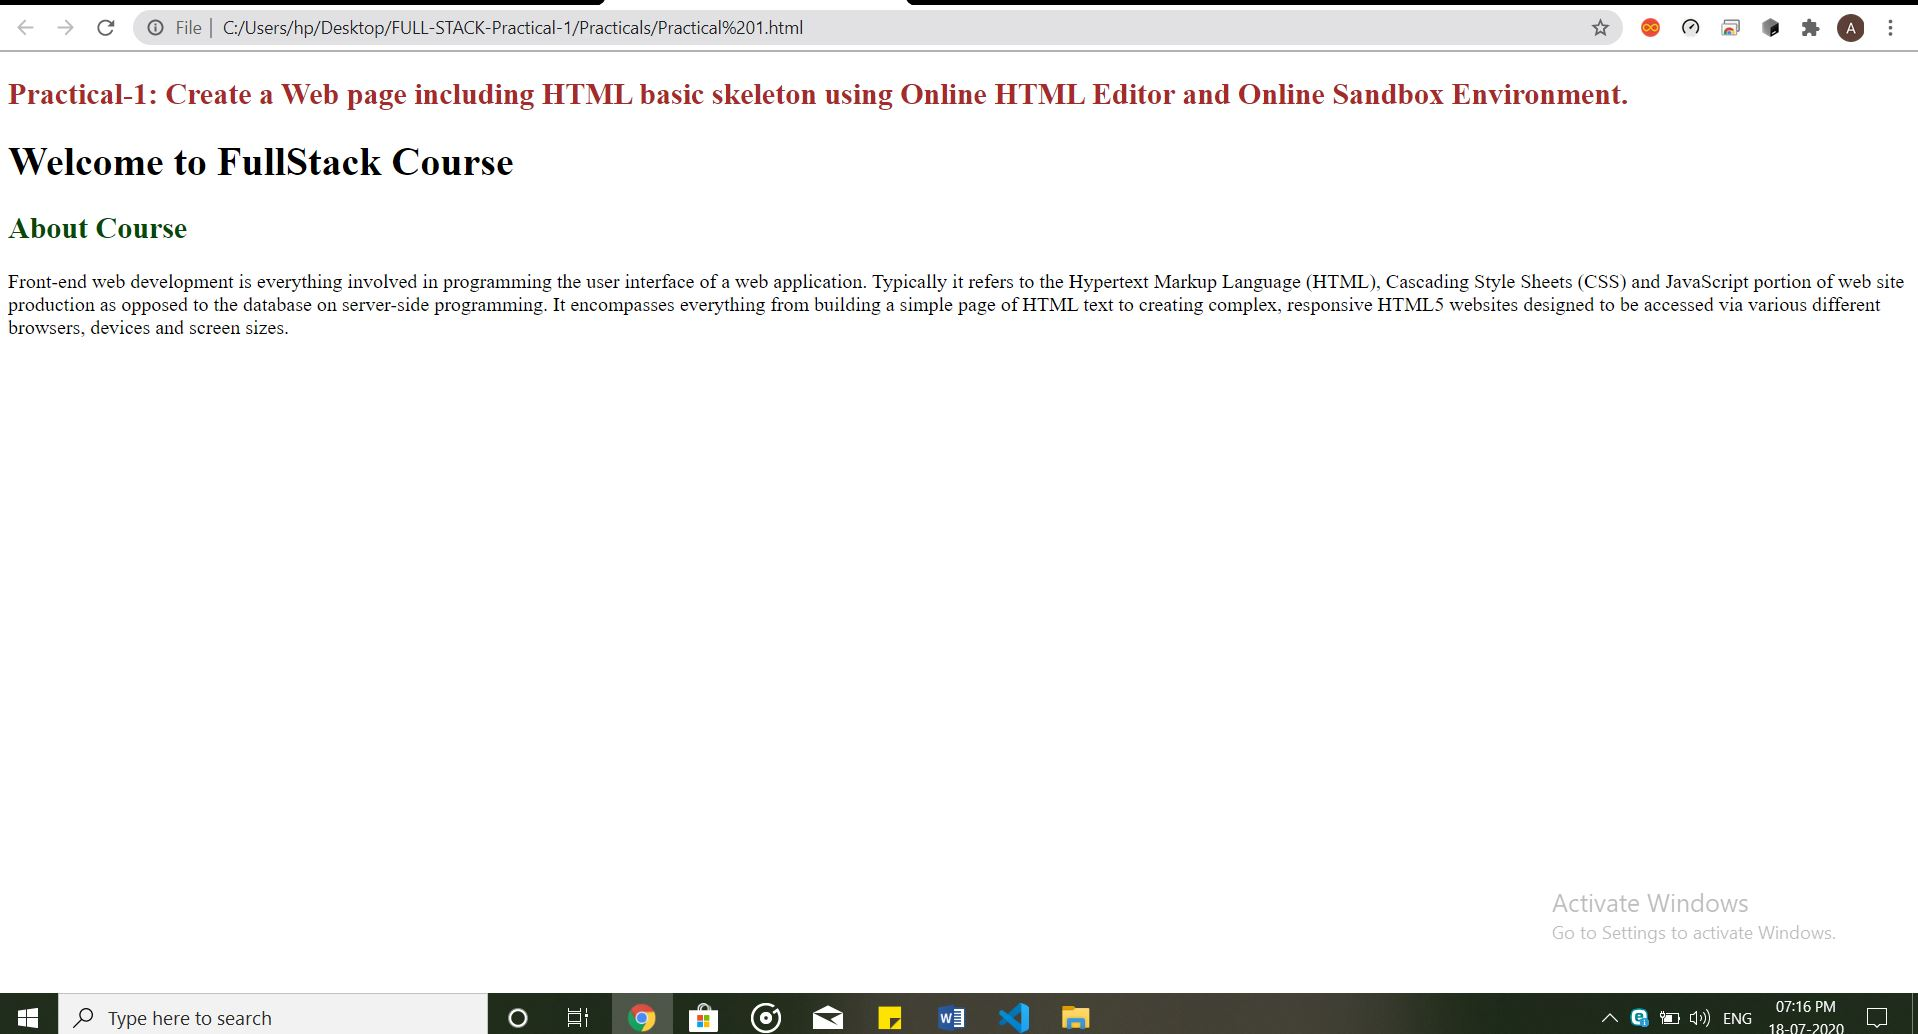
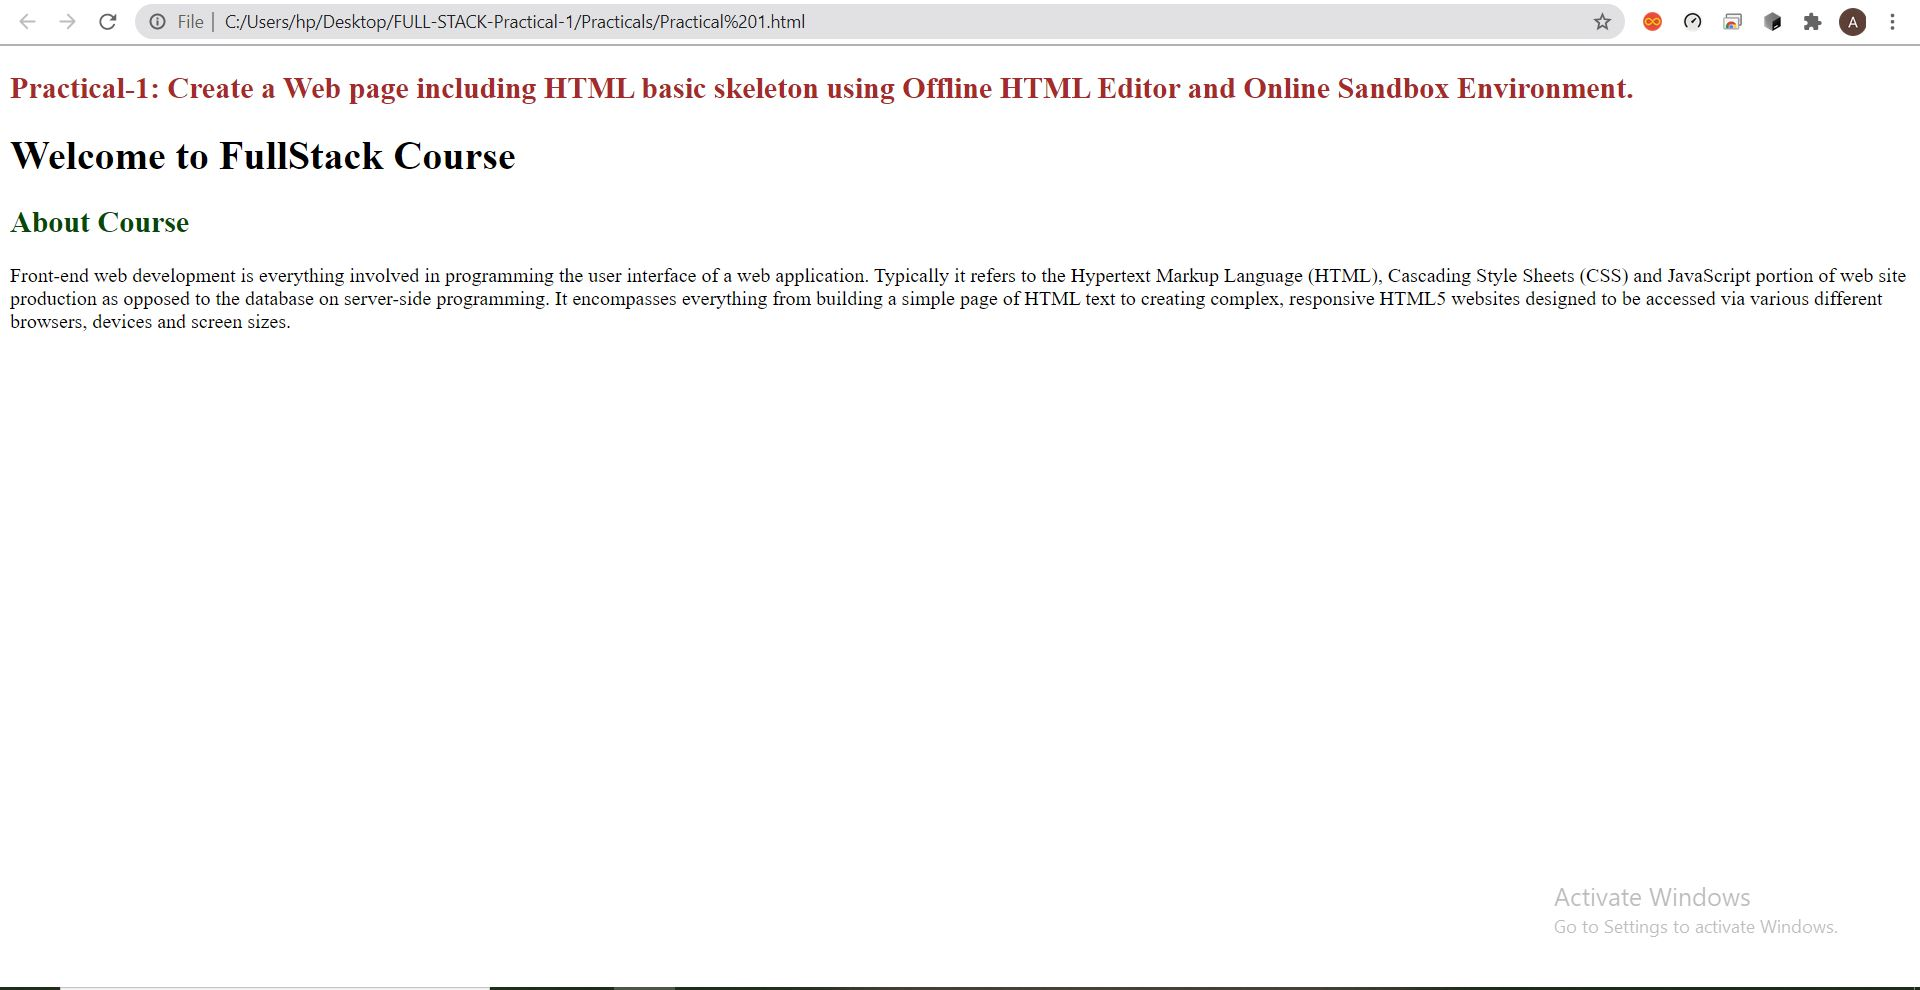
practical 1

diff --git a/Practicals/Practical 1.html b/Practicals/Practical 1.html
@@ -9,8 +9,9 @@
     <h2 style="color: brown;">Practical-1: Create a Web page including HTML basic skeleton using Offline HTML Editor and Online Sandbox Environment.</h2>
     <h1>Welcome to FullStack Course</h1>
     <h2 style="color: rgb(6, 73, 6);">About Course</h2>
-    <p>Front-end web development is everything involved in programming the user interface of a web application. Typically it refers to the Hypertext Markup Language (HTML), Cascading Style Sheets (CSS) and JavaScript portion of web site production as opposed to the database on server-side programming. It encompasses everything from building a simple page of HTML text to creating complex, responsive HTML5 websites designed to be accessed via various different browsers, devices and screen sizes.</p>
+    <p>Front end web development is everything involved in programming the user interface of a web application. Typically it refers to the Hypertext Markup Language (HTML), Cascading Style Sheets (CSS) and JavaScript portion of web site production as opposed to the database on server-side programming. It encompasses everything from building a simple page of HTML text to creating complex, responsive HTML5 websites designed to be accessed via various different browsers, devices and screen sizes.</p>
     devices and screen sizes.</p>
+
     
 
 </body>
